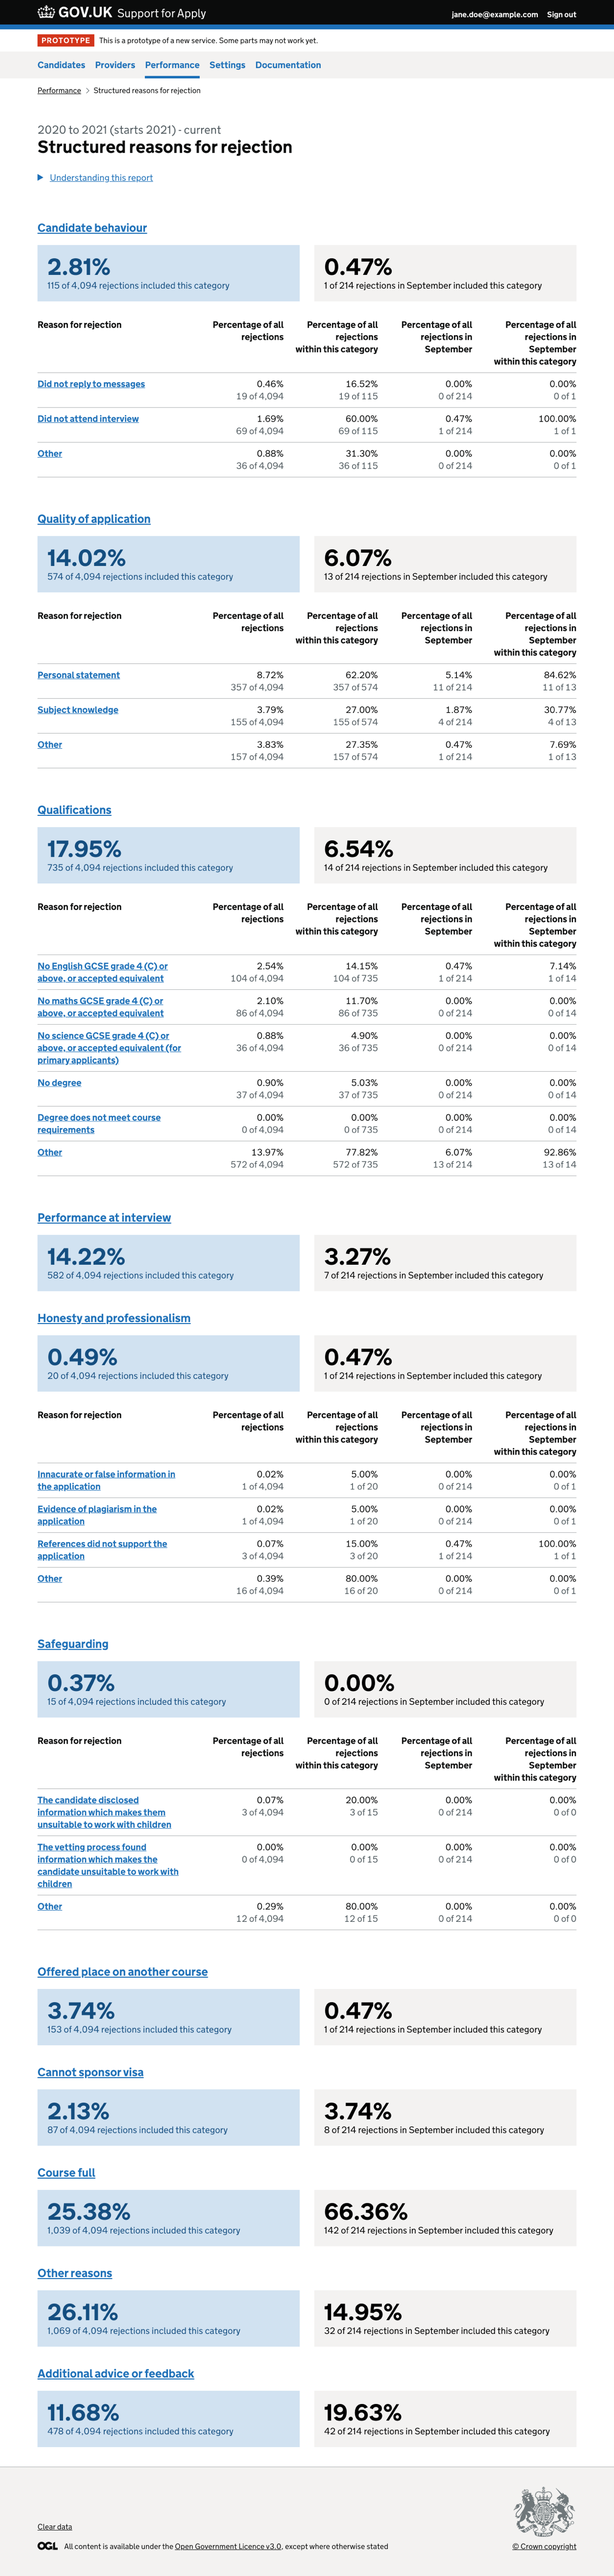
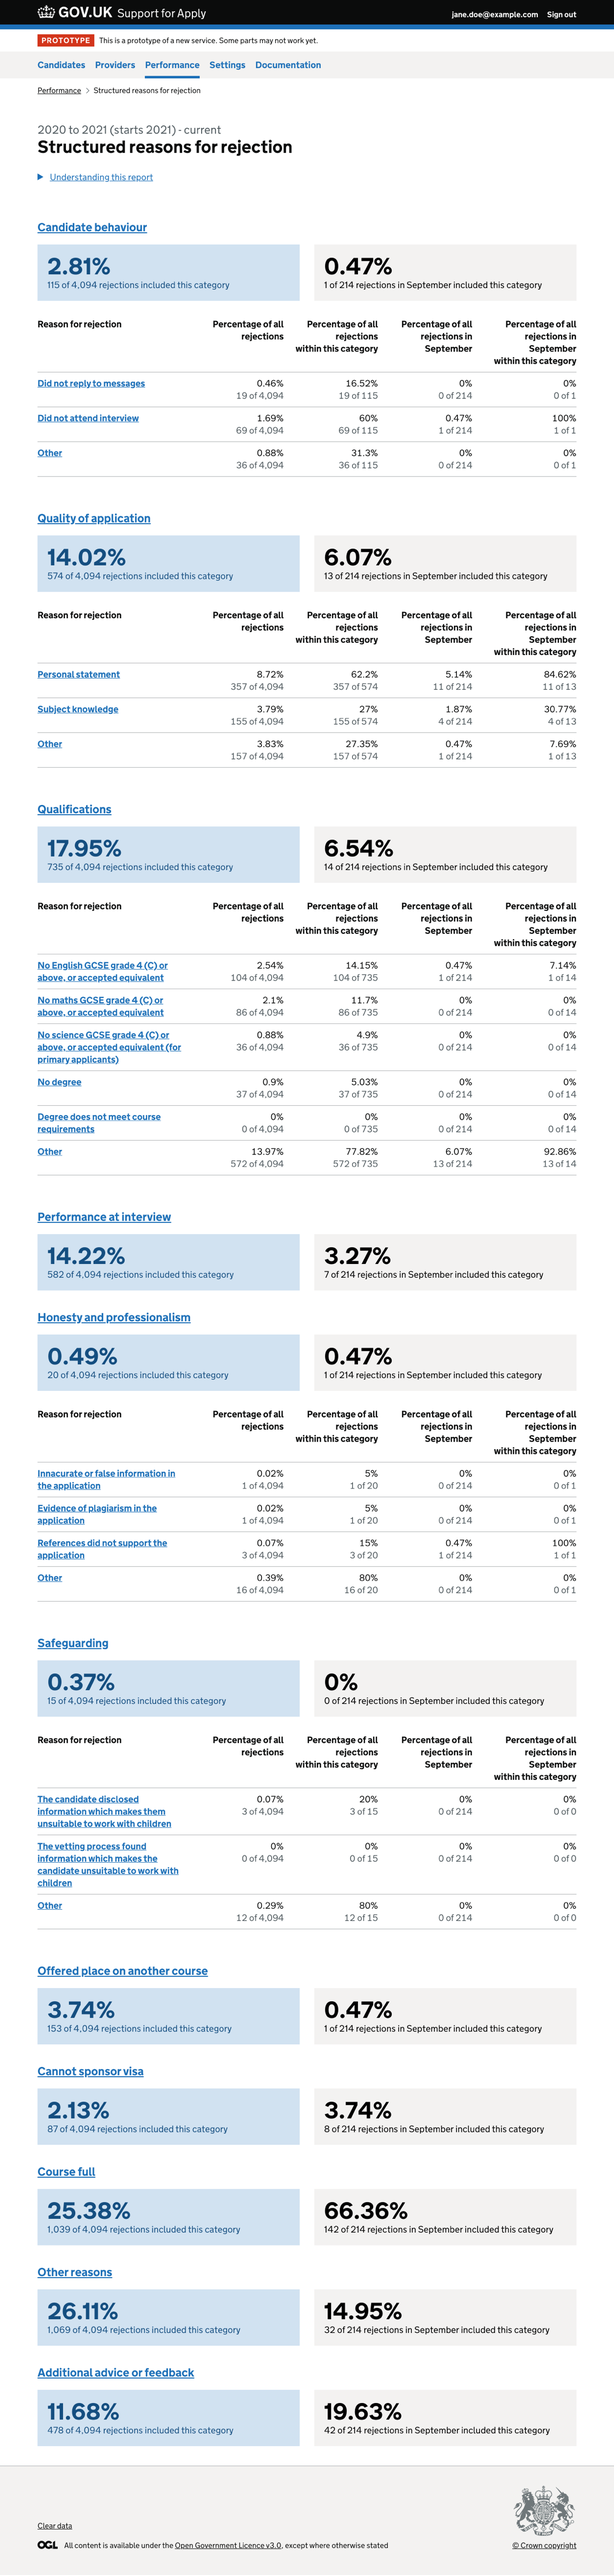
Fix number formats for percentages

diff --git a/app/posts/support-for-apply/2021-09-27-updating-the-reasons-for-rejection-report.md b/app/posts/support-for-apply/2021-09-27-updating-the-reasons-for-rejection-report.md
@@ -123,7 +123,7 @@ Instead of saying ‘this month’, we now give the name of the current month. T
 
 If the report is not for the current recruitment cycle, we remove the current month glance metric as it is not relevant. The current month of the current cycle contains only partial data, so it cannot be compared to the whole of the same month in the previous cycle.
 
-We considered including partial data for the same month in the previous cycle, taken up to the same day of the month as in the current cycle. We decided that this is unnecessarily complicated since there we do not know of a clear need for it.  
+We considered including partial data for the same month in the previous cycle, taken up to the same day of the month as in the current cycle. We decided that this is unnecessarily complicated since there we do not know of a clear need for it.
 
 ![Summary metrics](summary-metrics.png "Figure 1: Glance metrics for a category")
 
@@ -172,7 +172,7 @@ We added a caption to the page headings to show which cycle the data in the repo
 
 We formatted all numbers and percentages consistently, using:
 
-- 2 decimal places for each percentage
+- 2 decimal places for each percentage, removing any trailing zeros
 - a comma to indicate thousands
 
 ### Details page
